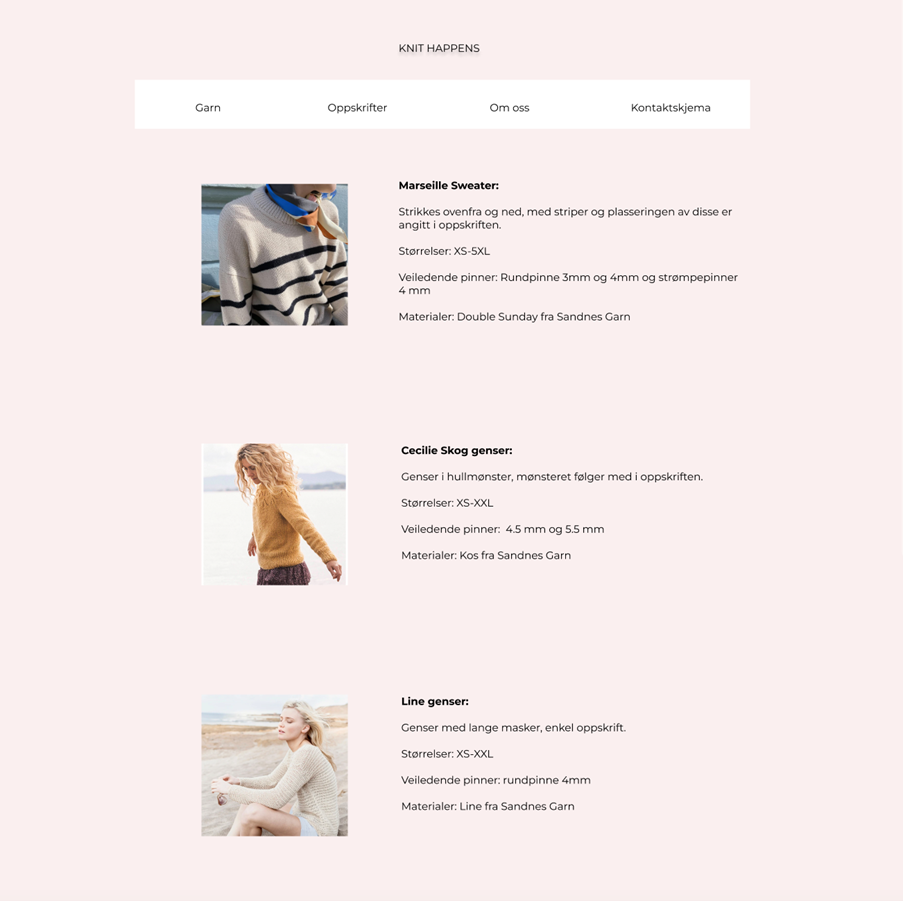
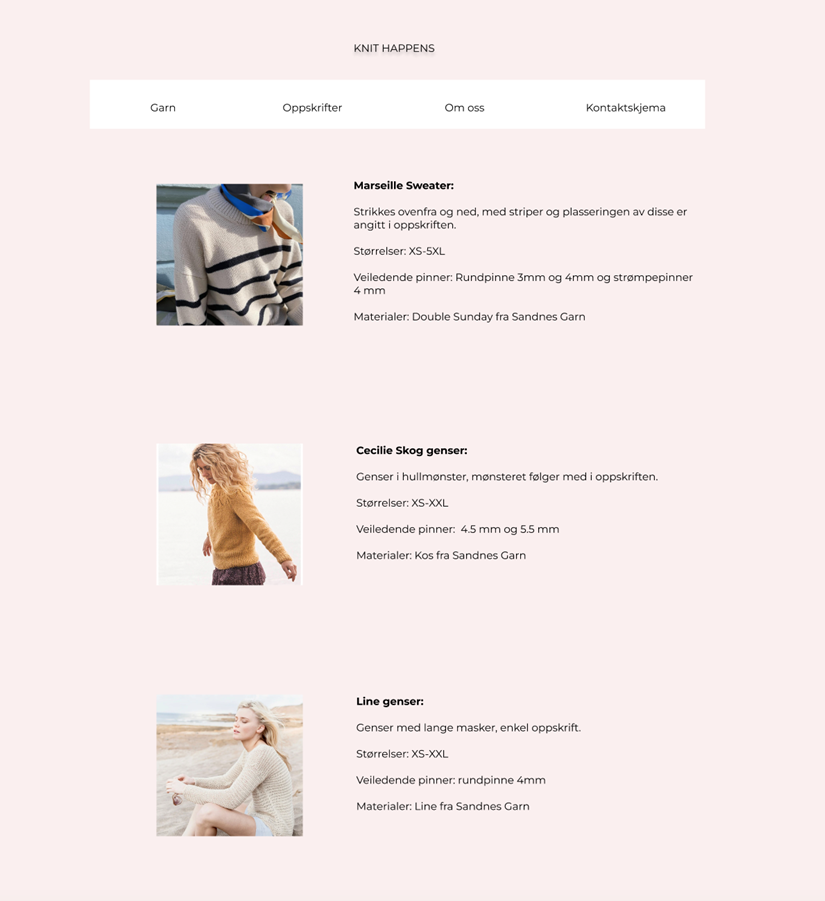
Fylt inn tekst

diff --git a/DOCUMENTS/P2_requirements_26.html b/DOCUMENTS/P2_requirements_26.html
@@ -18,7 +18,7 @@
         <section>
             <h2>1. Administrative details</h2>
             <p>Client: Guri Strikkesen, eier av strikkebutikken Knit Happens <br>
-                <h2>Knit Happens </h2>
+                <h3>Knit Happens </h3>
                 <p>Guri eier strikkebutikken Knit Happens og er lidenskapelig opptatt av strikking. Hun er også opptatt av å spre “strikkeglede” til folket. Guri har drevet en fysisk butikk i Trondheim siden 2015. Nå ønsker hun en nettside for å være mer tilgjengelig for alle, spesielt yngre.</p>
         </section>
         <section>
@@ -37,10 +37,78 @@
         </section>
 
         <section>
-            <h2>5. Content</h2>
-            <h1>homepage.html</h1>
+            <h2>5. Page layout and appearances</h2>
+            <p>Vi har fokusert på et enkelt og rent design hvor hovedfokuset skal være strikking og produktene Knit Happens tilbyr. Målet er å vekke strikkegleden hos brukeren hvor det skal være lett å navigere seg fram til produktene en ønsker å bestille. I menyen øverst på siden vil man umiddelbart få god oversikt over nettsiden og det er intuitivt hva som vil komme opp når man klikker på de ulike alternativene. Guri Strikkesen ønsket om at de som besøker nettsiden enkelt skal kunne ta kontakt med butikken. Dette løste vi gjennom et kontaktskjema inne på siden, som vi har lagt under “Kontaktskjema” i menyen. Vi har troen på at klienten vår, Guri, blir fornøyd med denne løsningen på nettsiden.</p>
+            <img src="img/Bilde8.png" alt="layout">
+            <p>Spesifikk styling vi vil ha på alle sidene: <br>
+                <ul>
+                    <li>Font: Helvetica</li>
+                    <li>Skriftstørrelse: 12</li>
+                </ul>
+            Fargevalg:
+                <ul>
+                    <li>Tekst: svart</li>
+                    <li>Bakgrunn: Lys rosa</li>
+                </ul>
+            
+            Bredde: 960px <br>
+            Linker: 
+                <ul>
+                    <li>Ved å trykke på hovedoverskriften(knit happens) vil man bli ført tilbake til hjemmesiden</li>
+                    <li>Hver av alternativene i hovedmenyen vil linke til sine respektive sider</li>
+                </ul>
+            Menyen: <br>
+                <ul>
+                    <li>Menylinjen vil ligge øverst uavhengig av hvilken side man er inne på. Det samme vil gjelde for bunnteksten.</li>
+                    <li>Det vil være en ramme rundt menyen, med hvit bakgrunn</li>
+                </ul>
+            Logo: 
+                <ul>
+                    <li>Logoen vil vises som et favicon</li>
+                    <img id="favicon" src="img/Favicon2.png" alt="Favicon">
+                </ul>
+            </p>
+
+            
+        </section>
+
+        <section>
+            <h2>6. Content</h2>
+            
+            <h3>Homepage - homepage.html</h3>
             <p>På hjem-siden til nettsiden vår har vi valgt å ha en introduksjon til butikken og utvalgte varer for at folk som vil bruke nettsiden ikke trenger å lure på hva nettsiden formidler, hva slags butikk nettsiden tilhører eller hva som er butikkens anbefalte varer. Likt som på de andre sidene er det også en navigation-bar og en footer med informasjon om hvordan å kontakte butikken. Vi har valgt å legge med en tekst om butikken, garn og nettsiden  som øverste innhold under navigation-baren med mål om å gi en introduksjon til butikken som er lett å finne. I tillegg har vi lagt med bilder av garn samt av butikken lenger nede på siden. Videre har vi tatt et valg om en behagelig og lys rosa bakgrunnsfarge for å gjøre det lett å lese og å se på nettsiden. </p>
             <img src="img/Bilde1.png" alt="homepage">
+            
+            <h3>Oppskrifter - oppskrifter.html</h3>
+            <p>På denne siden vil det bli presentert 5 ulike strikkeoppskrifter. Det vil være et bilde av hver av typene genser det er oppskrift på. I teksten til hvert bilde vil det stå litt info: alle skal inneholde størrelser oppskriften kan strikkes i, veiledende pinner og hvilke materialer som trengs. Materialer vil være de ulike garntypene som finnes på nettsiden. Hver av strikkeoppskriftene vil ha hvert sitt type garn som materiale. Det vil ikke være mulig å trykke på bildene eller teksten for å få mer informasjon. Derimot vil bildene bli større om man trykker på dem. </p>
+            <img src="img/Bilde2.png" alt="oppskrifter">
+            <img src="img/Bilde3.png" alt="oppskrifter2">
+
+            <h3>Garn - garn.html</h3>
+            <p>På denne siden blir de ulike garnene som Knit happens selger, presentert. Det vil være et bilde av hver av de ulike garnene. Disse bildene viser kun en av fargene. Så blir alle tre fargene beskrevet i teksten. I teksten til hvert bilde er det også en beskrivelse av innholdet i garnet, strikkefastheten samt løpelengden. Det vil ikke være mulig å klikke på bildene eller teksten for å få mer informasjon. Det er bare en fremvisning av produktene.</p>
+            <img src="img/Bilde4.png" alt="garn">
+            <img src="img/Bilde5.png" alt="garn2">
+
+            <h3>Om oss - omoss.html</h3>
+            <p>På denne siden vil vi representere kunden vår. Her skriver vi litt generelt om butikken før vi går inn på Guri Strikkesen som eier. Følger samme type mal som de andre sidene. Med en frame øverst og nederst. Skal også være mulig å trykke på knit happens helt på toppen og komme tilbake til forsiden. Øverste teksten er skrevet i litt større skrift enn den nederste. Grunnen til dette er at den teksten er “viktigere” enn teksten under. Det er fordi den går mer inn på butikken generelt, i stedet for kun Guri. Bildet er av Guri. <br>
+            <br> Muligens skrive noe om Guri sine favoritter i tekstboksen om henne. </p>
+            <img src="img/Bilde6.png" alt="Om oss">
+
+            <h3>Kontaktskjema - kontaktskjema.html</h3>
+            <p>På denne siden kan du kontakte oss gjennom et kontaktskjema som blir sendt direkte til Guri Strikkesen sin e-postadresse. <br>
+            <br>I meldingsboksen kan du spørre om hva som helst. Blant annet kan du sende inn en bestilling på ulike garn som kan holdes av i butikken i Trondheim. Ellers kan du stille spørsmål om de ulike garnene, eller om det er noe annet du lurer på. Ved å trykke på “Send”-knappen sendes skjemaet på e-post til Guri Strikkesen. </p>
+            <img src="img/Bilde7.png" alt="kontaktskjema">
+
         </section>
+
+        <section>
+            <h2>7. Minimum Requirements</h2>
+            <p> 
+
+
+            </p>
+        </section>
+
+
     </article>
 </body>

diff --git a/DOCUMENTS/style.css b/DOCUMENTS/style.css
@@ -15,13 +15,28 @@ h3 {
 
 article{
     align-content: center;
-    margin-left: 25%;
-    margin-right: 25%;
+    margin-left: 20%;
+    margin-right: 20%;
     margin-top: 5%;  
-    font-family: he;  
+    font-family: Helvetica;  
+    font-size: 12;
 }
 
 section{
     line-height: 1.5;
 }
+
+img {
+    width: 100%;
+}
+
+#favicon {
+    width: 80px;
+}
+
+li {
+    margin-top: auto;
+}
+
+
 
